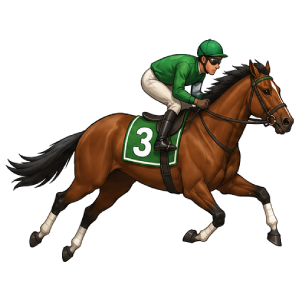
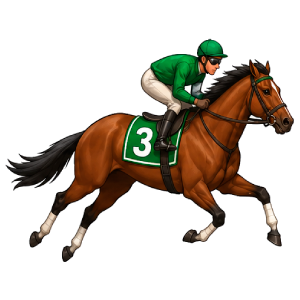
Mejorar animación de la carrera con sprites por caballo y resaltado del jugador
- ViewPista ahora carga un sprite distinto por caballo (caballo1..6.png)
- Resalta en naranja el nombre del caballo del jugador
- Ajusta dimensiones de la pista (986px) y posicionamiento de etiquetas
- Quita los System.out.println de depuración

diff --git a/src/main/java/com/uade/carreracaballos/view/ViewPista.java b/src/main/java/com/uade/carreracaballos/view/ViewPista.java
@@ -3,6 +3,7 @@ import javax.swing.JPanel;
 import java.awt.Image;        // clase base para imágenes
 import java.awt.Graphics;     // para paintComponent
 import java.awt.Color;
+import java.awt.Font;
 import java.util.List;
 import javax.swing.ImageIcon; // para cargar el archivo
 
@@ -16,28 +17,29 @@ public class ViewPista extends JPanel {
 
     int caballoSize = 60;
 
-    private static final int X_INICIAL = 50;
-    private static final int X_META    = 755;
+    private static final int X_INICIAL = 130;
+    private static final int X_META    = 880;
 
-    private List<CaballoDTO> participantes;    private double[] distancias;       // distancia (posiblemente interpolada) por caballo
-    private int longitudPista = 1;
-    //private Caballo miCaballo;
+    private List<CaballoDTO> participantes;
+    private int longitudPista;
+    private int idCaballoJugador;
 
     public ViewPista() {
     	// imagen 1693x929, ratio
         java.net.URL urlPista = getClass().getResource("/com/uade/carreracaballos/view/assets/pista.png");
-        java.net.URL urlCaballo = getClass().getResource("/com/uade/carreracaballos/view/assets/caballo3.png");
 
         fondo = new ImageIcon(urlPista).getImage();
         for (int i=0;i<caballos.length;i++) {
+            java.net.URL urlCaballo = getClass().getResource("/com/uade/carreracaballos/view/assets/caballo"+(i+1)+".png");
         	caballos[i] = new ImageIcon(urlCaballo).getImage();
         }
     }
 
 
-    public void actualizar(List<CaballoDTO> participantes, int longitudPista) {
+    public void actualizar(List<CaballoDTO> participantes, int longitudPista, int idCaballoJugador) {
         this.participantes = participantes;
         this.longitudPista = Math.max(1, longitudPista);
+        this.idCaballoJugador = idCaballoJugador;
         
         repaint();
     }
@@ -45,7 +47,7 @@ public class ViewPista extends JPanel {
     @Override
     protected void paintComponent(Graphics g) {
         super.paintComponent(g);
-        g.drawImage(fondo, 0, 0, 864, 458, this);
+        g.drawImage(fondo, 0, 0, 986, 458, this);
 
         if (participantes == null) {
             return;
@@ -55,19 +57,19 @@ public class ViewPista extends JPanel {
         int n = Math.min(participantes.size(), caballos.length);
         for (int i = 0; i < n; i++) {
             CaballoDTO c = participantes.get(i);
-            System.out.println(c.getDistanciaRecorrida()+" "+c.getNombre());
 
             // Avance proporcional: 0 -> X_INICIAL, longitudPista -> X_META.
             double ratio = c.getDistanciaRecorrida() / longitudPista;
             ratio = Math.max(0.0, Math.min(1.0, ratio));
-            int x = X_INICIAL + (int) Math.round((X_META - X_INICIAL) * ratio);
-            int y = 90 + 35 * i;
+            int xCaballo = X_INICIAL + (int) Math.round((X_META - X_INICIAL) * ratio);
+            int yCaballo = 90 + 35 * i;
 
-            g.drawImage(caballos[i], x, y, caballoSize, caballoSize, this);
+            g.drawImage(caballos[i], xCaballo, yCaballo, caballoSize, caballoSize, this);
 
             String etiqueta = c.getNombre();
-            //g.setColor(c == miCaballo ? Color.YELLOW : Color.WHITE);
-            g.drawString(etiqueta, X_INICIAL, y + 12);
+            g.setColor(c.getId() == idCaballoJugador ? Color.ORANGE : Color.WHITE);
+            g.setFont(new Font ("Helvetica", 0, 16));
+            g.drawString(etiqueta, 20, 123 + 37*i);
         }
     }
 }

diff --git a/src/main/java/com/uade/carreracaballos/view/MenuFrame.java b/src/main/java/com/uade/carreracaballos/view/MenuFrame.java
@@ -385,7 +385,7 @@ public class MenuFrame extends JFrame {
         		// Es necesario cargarlos desde carreraCont
 
 
-                ventanaCarrera.getPista().actualizar(caballosDTO, 500);
+                ventanaCarrera.getPista().actualizar(caballosDTO, 500, caballoSeleccionadoId);
 
 
                 try {

diff --git a/src/main/java/com/uade/carreracaballos/view/VentanaCarrera.java b/src/main/java/com/uade/carreracaballos/view/VentanaCarrera.java
@@ -16,7 +16,7 @@ public class VentanaCarrera extends JFrame {
 
     public VentanaCarrera() {
         setTitle("Carrera de Caballos");
-        setSize(864, 458);
+        setSize(986, 458);
         setLocationRelativeTo(null);
         setDefaultCloseOperation(JFrame.DISPOSE_ON_CLOSE);
 